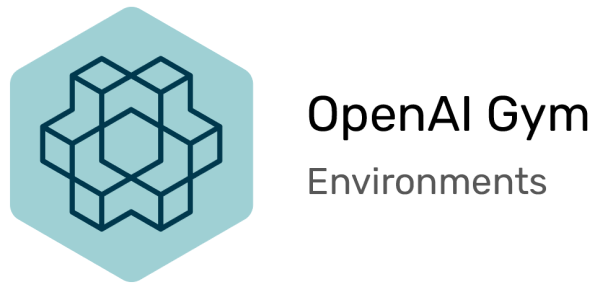
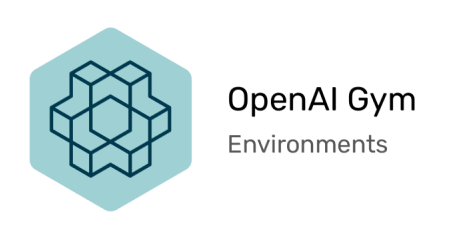
Added articles
- OpenAI Gymnasium articles
- Reduced image sizes
- Added images and content for articles

Changed region(s): [[0.0, 0.0289, 0.4356, 0.9835], [0.4978, 0.3182, 0.9956, 0.4917], [0.4978, 0.5496, 0.9333, 0.6653]]

diff --git a/_blog_articles/gymnasium/gym_spaces.html b/_blog_articles/gymnasium/gym_spaces.html
@@ -1,0 +1,145 @@
+---
+title: Gymnasium - Spaces
+desc: This article is the first of a three-part series that focuses on the core components of the Gymnasium library, covering spaces.
+img_url: rl-gym-spaces.png
+date: 01/12/2022
+tag: rl
+topic: gymnasium
+type: article
+permalink: /blog/gymnasium/:title
+layout: single-page
+---
+<p>This article is the first of a three-part series that focuses on the core components of the Gymnasium library. <a href="https://farama.org/projects">Gymnasium</a> is a Python library developed and maintained by <a href="https://openai.com">OpenAI</a>, where its purpose is to house a rich collection of environments for Reinforcement Learning (RL) experiments using a unified interface.</p>
+<p>If you have only just started your journey with the Gymnasium framework, the official Gymnasium <a href="https://gymnasium.farama.org/">documentation</a> is a great place to start. However, the information it offers is limited. The articles in this series aim to expand this information and provide a deeper understanding of each of the four components Gymnasium offers. In this article, we focus on <span class="med">Spaces</span>.</p>
+
+<h2>Spaces</h2>
+{%- include single_parts/image.html url="spaces-class-hierarchy.png" alt="Spaces class hierarchy" label="Figure 1.1 Spaces class hierarchy." -%}
+
+<p>Spaces assist in defining different types of environment storage spaces within an RL environment, specifically for the observation and action spaces. Six main types derive from the <code>Space(shape=None, dtype=None)</code> abstract class: <code>Discrete</code>, <code>Box</code>, <code>Dict</code>, <code>Tuple</code>, <code>MultiBinary</code>, and <code>MultiDiscrete</code>. However, all spaces are found on the <a href="https://github.com/Farama-Foundation/Gymnasium/tree/main/gymnasium/spaces">Gymnasium GitHub repository</a>. The <code>Space</code> abstract class can be inherited from directly. Though, it is highly recommended to use one of the six primary existing space classes. Furthermore, the space folder contains a file dedicated to utility functions that will also be discussed.</p>
+<p>There are four main functions that the <code>Space</code> class provides:</p>
+<ul>
+    <li><code>sample()</code> - randomly samples an element from the space and returns it.</li>
+    <li><code>contains(x)</code> - returns true or false depending on if <code>x</code> is an item within the space.</li>
+    <li><code>to_jsonable(sample_n)</code> - converts a given batch (list) of samples into a JSON data type.</li>
+    <li><code>from_jsonable(sample_n)</code> - converts a given batch (list) of JSON data into a batch of samples for the space.</li>
+</ul>
+<p>Every child class that derives from <code>Space</code> creates a version of these four functions that are accessible in the same manner, with the same parameters. However, the <code>Discrete</code> class is the only exception to this, where it uses only two of the four functions: <code>sample()</code> and <code>contains(x)</code>.</p>
+<p>Additionally, there are two parameters required for the <code>Space</code> class:</p>
+<ul>
+    <li><code>shape</code> - a tuple of the size of the space.</li>
+    <li><code>dtype</code> - the format type of the data, such as float32 or int32.</li>
+</ul>
+
+<h3>Discrete</h3>
+<p>The <code>Discrete</code> class represents a mutually exclusive set of items, numbered from 0 to \(n - 1\), where n is the number of items stored within it. For example, <code>Discrete(n=4)</code> could signify an action space with four directions to move in <code>[left, right, up, down]</code>, each is associated with a number between 0 and 3, respectively. A simple code example:</p>
+
+<pre rel="python"><code><span class="keyword">import</span> gymnasium <span class="keyword">as</span> gym
+
+env = gym.make(<span class="string">"FrozenLake-v0"</span>)
+<span class="keyword">print</span>(env.action_space) 
+<span class="comment"># > Discrete(4)</span>
+<span class="keyword">print</span>(env.action_space.<span class="function">sample</span>()) 
+<span class="comment"># > 2</span></code></pre>
+
+<h3>Box</h3>
+<p>The <code>Box</code> class represents an \(n\)-dimensional tensor of rational numbers with the intervals <code>[low, high]</code>. For instance, this could be an accelerator pedal with a single value between 0 and 1, presented as <code>Box(low=0.0, high=1.0, shape=(1,), dtype=np.float32)</code>, creating a one-dimensional tensor with a single float value.</p>
+<p>Another example of <code>Box</code> could represent an Atari screen observation space, which is an RGB (red, green, blue) image of size 210x160: <code>Box(low=0, high=255, shape(210, 160, 3), dtype=np.uint8)</code>. In this instance, we have a tuple with three arguments stating the height, width, and colour channels (red, green, blue), respectively. Overall, every observation consists of a three-dimensional tensor with 100,800 bytes.</p>
+<p>These examples present an identical bound <code>Box</code> for each dimension. However, there is another common use case available for independent bound boxes, such as, <code>Box(low=np.array([-1.0, -2.0]), high=np.array([2.0, 4.0]), dtype=np.float32)</code>, where the shape is inferred from the low and high parameters.</p>
+<p>The class has one additional function:</p>
+<ul>
+    <li><code>is_bounded(manner)</code> - accepts the parameters <code>below</code>, <code>above</code>, or <code>both</code> and determines if the <code>Box</code> contains values within the range <code>[-inf, +inf]</code>. If the parameter is below, it will check if <code>-inf</code> is greater than all low numbers, above performs the opposite for all high numbers, and both checks for both comparisons. The function returns true or false based on the conditions.</li>
+</ul>
+<p>Code example for identical and independent bound boxes:</p>
+
+<pre rel="python"><code><span class="keyword">import</span> numpy <span class="keyword">as</span> np
+
+b1 = <span class="class">Box</span>(low=<span class="number">0.0</span>, high=<span class="number">1.0</span>, shape=(<span class="number">1</span>,), dtype=<span class="class">np</span>.<span class="class">float32</span>) <span class="comment"># identical</span>
+b2 = <span class="class">Box</span>(low=<span class="class">np</span>.<span class="class">array</span>([<span class="number">-1.0</span>, <span class="number">2.0</span>]), high=<span class="class">np</span>.<span class="class">array</span>([<span class="number">-2.0</span>, <span class="number">4.0</span>]), dtype=<span class="class">np</span>.<span class="class">float32</span>) <span class="comment"># independent</span>
+<span class="keyword">print</span>(b1) 
+<span class="comment"># > Box(0.0, 1.0, (1,), float32)</span>
+<span class="keyword">print</span>(b2) 
+<span class="comment"># > Box(-1.0, 4.0, (2,), float32) - low.min(), high.max(), shape, dtype</span>
+<span class="keyword">print</span>(b2.<span class="function">sample</span>()) 
+<span class="comment"># > [-1.58, 2.52]</span></code></pre>
+
+<h3>Dict</h3>
+<p>The <code>Dict</code> class is the first of two methods that provides a way to store multiple <code>Space</code> class instances in a container, providing the ability to index spaces by a given key, making it easy to categorize and find space objects efficiently.</p>
+<p>For example, a simple <code>Dict</code> class that reflects a 2D shape with an x-y position and an x-y-z velocity is created as follows:</p>
+
+<pre rel="python"><code><span class="class">Dict</span>({
+    <span class="string">"position"</span>: <span class="class">Discrete</span>(<span class="number">2</span>), 
+    <span class="string">"velocity"</span>: <span class="class">Discrete</span>(<span class="number">3</span>)
+})</code></pre>
+
+<p>One powerful feature of the <code>Dict</code> class is that we can nest a <code>Dict</code> inside another <code>Dict</code> to make more comprehensive storage containers for large projects. For example:</p>
+
+<pre rel="python"><code><span class="class">Dict</span>({
+    <span class="string">'sensors'</span>:  <span class="class">Dict</span>({
+        <span class="string">'front_cam'</span>: <span class="class">Tuple</span>((
+        <span class="class">Box</span>(low=<span class="number">0</span>, high=<span class="number">1</span>, shape=(<span class="number">10</span>, <span class="number">10</span>, <span class="number">3</span>)),
+        <span class="class">Box</span>(low=<span class="number">0</span>, high=<span class="number">1</span>, shape=(<span class="number">10</span>, <span class="number">10</span>, <span class="number">3</span>))
+        )),
+        <span class="string">'rear_cam'</span>: <span class="class">Box</span>(low=<span class="number">0</span>, high=<span class="number">1</span>, shape=(<span class="number">10</span>, <span class="number">10</span>, <span class="number">3</span>))
+    }),
+    <span class="string">'ext_controller'</span>: <span class="class">MultiDiscrete</span>((<span class="number">5</span>, <span class="number">2</span>, <span class="number">2</span>))
+})</code></pre>
+
+
+<h3>Tuple</h3>
+<p>The <code>Tuple</code> class is the second method for storing several <code>Space</code> class instances inside a single container, providing a more minimised storage container.</p> 
+<p>Imagine we are creating an environment for a car. The car requires a continuous action space for three components: steering wheel controls, brake pedal positions, and accelerator pedal positions. Additionally, the car needs two sets of discrete action spaces: a turn signal (off, right, or left) and a horn (on or off).</p>
+<p>These controls can be represented in the form of a <code>Tuple</code> class as follows:</p>
+<pre rel="python"><code>spaces = <span class="class">Box</span>(low=-<span class="number">1.0</span>, high=<span class="number">1.0</span>, shape=(<span class="number">3</span>,), dtype=<span class="class">np</span>.<span class="class">float32</span>)
+<span class="class">Tuple</span>(spaces=(spaces, <span class="class">Discrete</span>(n=<span class="number">3</span>), <span class="class">Discrete</span>(n=<span class="number">2</span>)))</code></pre>
+
+
+<h3>MultiBinary</h3>
+<p>The <code>MultiBinary</code> class represents an \(n\)-dimensional binary space containing 0s and 1s. <code>MultiBinary</code> accepts one parameter, \(n\), which is the number of items to add to the binary space. n can be a single number, a list of numbers, or a tuple of numbers.</p>
+<p>For example:</p>
+<pre rel="python"><code>mb1 = <span class="class">MultiBinary</span>(<span class="number">5</span>)
+mb2 = <span class="class">MultiBinary</span>([<span class="number">3</span>, <span class="number">2</span>])
+<span class="keyword">print</span>(mb1.<span class="function">sample</span>()) 
+<span class="comment"># > array([0, 1, 0, 1, 0], dtype=int8)</span>
+<span class="keyword">print</span>(mb2.<span class="function">sample</span>()) 
+<span class="comment"># > array([[0, 0], [0, 1], [1, 1]], dtype=int8)</span></code></pre>
+
+<h3>MultiDiscrete</h3>
+<p>The <code>MultiDiscrete</code> class creates a series of discrete spaces with a different number of elements in each. A use for this class involves game controllers or keyboards, requiring their own unique discrete action space.</p>
+<p>The class accepts two parameters:</p>
+<ul>
+<li><code>nvec</code> - a list of numbers describing the number of actions in each discrete space.</li>
+<li><code>dtype</code> - the format data type of the discrete spaces, defaults to int64.</li>
+</ul>
+<p>For example, we can conceptualize a Nintendo Game Controller that has three discrete action spaces, where NOOP stands for no operation:</p>
+<ol>
+<li>Arrow keys (5 actions) - NOOP[0], UP[1], RIGHT[2], DOWN[3], LEFT[4] - min: 0, max: 4.</li>
+<li>Button A (2 actions) - NOOP[0], PRESSED[1] - min: 0, max: 1.</li>
+<li>Button B (2 actions) - NOOP[0], PRESSED[1] - min: 0, max: 1.</li>
+</ol>
+<p>The controller is initialized using:</p>
+<pre rel="python"><code><span class="class">MultiDiscrete</span>(nvec=[<span class="number">5</span>, <span class="number">2</span>, <span class="number">2</span>], dtype=<span class="class">np</span>.<span class="class">int64</span>)</code></pre>
+
+<h3>Utility Functions</h3>
+<p>Within the spaces folder, there is a file called <span class="med">utils.py</span> that contains four utility functions:</p>
+<ul>
+    <li><code>flatdim(space)</code> - returns an integer for the number of dimensions a flatten equivalent of the given space would have.</li>
+    <li><code>flatten(space, x)</code> - converts a data point <code>x</code> from a given space into a one-dimensional array and returns the 1D array. The function is useful for passing data points from a space into a neural network that accepts only flattened arrays.</li>
+    <li><code>unflatten(space, x)</code> - reverses the transformation applied by <code>flatten(space, x)</code> and returns a data point with a structure that matches the space.</li>
+    <li><code>flatten_space(space)</code> - converts a given space into a one-dimensional <code>Box</code>, containing the exact number of dimensions specified with <code>flatdim(space)</code>.</li>
+</ul>
+<p>Each function has its benefits and can be applied to any RL project by importing the file using the following import statement:</p>
+<pre rel="python"><code><span class="keyword">import</span> gym.spaces.utils <span class="keyword">as</span> gym_utils</code></pre>
+
+<p>A code example:</p>
+<pre rel="python"><code>b = <span class="class">Box</span>(low=<span class="number">0</span>, high=<span class="number">255</span>, shape=(<span class="number">210</span>, <span class="number">160</span>, <span class="number">3</span>), dtype=<span class="class">np</span>.<span class="class">uint8</span>)
+b_flat = gym_utils.<span class="function">flatten_space</span>(b) <span class="comment"># Box(0, 255, (100800,), uint8)</span>
+b_flat_count = gym_utils.<span class="function">flatdim</span>(b) <span class="comment"># 100800</span>
+
+<span class="keyword">print</span>(b.<span class="function">sample</span>()[<span class="number">0</span>][:<span class="number">2</span>]) 
+<span class="comment"># > [[18 200 33], [123 139 28]] - first 2 rows of first item</span>
+<span class="keyword">print</span>(b_flat.<span class="function">sample</span>()[:<span class="number">5</span>]) 
+<span class="comment"># > [33 53 352 177 102] - first 5 items</span></code></pre>
+
+<h2>References</h2>
+<p>Book by Maxim Lapan (2020) - <a href="https://www.packtpub.com/product/deep-reinforcement-learning-hands-on-second-edition/9781838826994">Deep Reinforcement Learning Hands-On, Second Edition</a></p>
+<p>Gymnasium Codebase (2022) - <a href="https://github.com/Farama-Foundation/Gymnasium">GitHub</a></p>

diff --git a/_blog_articles/gymnasium/gym_wrappers.html b/_blog_articles/gymnasium/gym_wrappers.html
@@ -1,0 +1,93 @@
+---
+title: Gymnasium - Wrappers & Monitors
+desc: This article is the third and final article in a three-part series that focuses on the core components of the Gymnasium library, covering wrappers and monitors.
+img_url: rl-gym-wraps.png
+date: 03/12/2022
+tag: rl
+topic: gymnasium
+type: article
+permalink: /blog/gymnasium/:title
+layout: single-page
+---
+<p>This article is the third and final in a three-part series that focuses on the core components of the Gymnasium library. <a href="https://farama.org/projects">Gymnasium</a> is a Python library developed and maintained by <a href="https://openai.com">OpenAI</a>, where its purpose is to house a rich collection of environments for Reinforcement Learning (RL) experiments using a unified interface.</p>
+<p>If you have only just started your journey with the Gymnasium framework, the official Gymnasium <a href="https://gymnasium.farama.org/">documentation</a> is a great place to start. However, the information it offers is limited. The articles in this series aim to expand this information and provide a deeper understanding of each of the four components Gymnasium offers. In this article, we focus on <span class="med">Wrappers & Monitors</span>.</p>
+
+<h2>Wrappers</h2>
+<p>Wrappers are a method to modularly extend an RL environment's functionality while keeping the original classes separate. Given an environment with a set of observations, a wrapper can provide the ability to accumulate the observations within a replay buffer and output the agent's \(N\) last observations without editing the original class.</p>
+<p>Typically, wrappers are "wrapped" around an existing environment and add extra functionality. Gymnasium provides a framework for these situations using the <code>Wrapper</code> class.</p>
+
+{%- include single_parts/image.html url="wrapper-class-hierarchy.png" alt="Wrapper class hierarchy" label="Figure 1.1 Wrapper classes hierarchy." -%}
+
+<p>There are two sets of locations for wrappers on the Gymnasium GitHub repository. The first is in the <a href="https://github.com/Farama-Foundation/Gymnasium/blob/main/gymnasium/core.py">core.py</a> file, which contains the main template wrappers, all of which are discussed in this section. The second is inside the <a href="https://github.com/Farama-Foundation/Gymnasium/tree/main/gymnasium/wrappers">wrappers folder</a> that houses a wide variety of utility wrappers for different environment requirements and highlights the following quick tips for creating wrappers:</p>
+    <ul>
+      <li>Remember to use <code>super().__init__(env)</code> to override the wrapper's <code>__init__()</code> function.</li>
+      <li>Inner environments are accessible with <code>self.unwrapped</code>.</li>
+      <li>Previous environment layers are accessed using <code>self.env</code>.</li>
+      <li>The variables <code>metadata</code>, <code>action_space</code>, <code>observation_space</code>, <code>reward_range</code>, and <code>spec</code> are copied to <code>self</code> from the previous environment.</li>
+      <li>Wrapped classes require at least one of the following functions: <code>__init__(self, env)</code>, <code>step</code>, <code>reset</code>, <code>render</code>, <code>close</code>, or <code>seed</code>.</li>
+      <li>A wrapped (layered) function requires an input from the previous layer (<code>self.env</code>) and/or the inner layer (<code>self.unwrapped</code>).</li>
+</ul>
+<p>The <code>Wrapper</code> class inherits from the <code>Env</code> class, where it accepts a single parameter - the instance of the <code>Env</code> class to wrap. The <code>Wrapper</code> class has three child classes that allow filtration of the environments core information. The child wrappers are the <code>ObservationWrapper</code>, <code>RewardWrapper</code>, and <code>ActionWrapper</code>.</p>
+<p>Each wrapper has a unique version of the <code>reset()</code> and <code>step(action)</code> functions found in the Env class. Both of these functions are explained in more detail in the <a href="/blog/gymnasium/gym_envs">Gymnasium - Environments</a> article. Furthermore, each child wrapper requires an additional class function, highlighted within their respective sections below.</p>
+
+<h3>ObservationWrapper</h3>
+<p>The <code>ObservationWrapper</code> is a wrapper that focuses on observations. It requires a single function <code>observation(obs)</code>, where the <code>obs</code> argument is a single observation from the wrapped environment. The observation is passed through the function and updated, based on the developer's requirements, and returned by the function. </p>
+
+<h3>RewardWrapper</h3>
+<p>Like the <code>ObservationWrapper</code>, <code>RewardWrapper</code> requires a single function, <code>reward(rew)</code>. However, this function focuses on agent rewards, not observations. The <code>rew</code> argument is a single reward value that gets updated within the function and then returned by it.</p>
+
+<h3>ActionWrapper</h3>
+<p>The last child wrapper, <code>ActionWrapper</code>, focuses on the third critical component to RL algorithms, actions. Similar to the others, it requires a single function <code>action(act)</code>. The act argument is a single agent action that passes through the function, is updated, and then returned.</p>
+<p>For instance, imagine a situation where we want to amend the stream of actions sent by the agent and change them so that with a probability of 10%, the current action is replaced with a random one. Using this approach, the agent will explore the environment more, assisting in solving the exploration/exploitation problem. In practice, the example would look like the following:</p>
+
+<pre><code><span class="keyword">import</span> gym
+<span class="keyword">import</span> random
+<span class="keyword">from</span> typing <span class="keyword">import</span> TypeVar
+
+Action = <span class="class">TypeVar</span>(<span class="long-comment">'Action'</span>)
+
+<span class="keyword">class</span> <span class="class">RandomActionWrapper</span>(<span class="class">gym.ActionWrapper</span>):
+    <span class="long-comment">"""A basic ActionWrapper representation for including random actions."""</span>
+    <span class="keyword">def</span> <span class="function">__init__</span>(<span class="keyword">self</span>, env: <span class="class">gym.Env</span>, epsilon: <span class="keyword">float</span> = <span class="number">0.1</span>) -> <span class="keyword">None</span>:
+    <span class="keyword">super</span>().<span class="function">__init__</span>(env)
+    <span class="keyword">self</span>.epsilon = epsilon
+
+<span class="keyword">def</span> <span class="function">action</span>(<span class="keyword">self</span>, action: Action) -> Action:
+    <span class="long-comment">"""
+    Handles the agent action functionality. Accepts a current action 
+    and returns a random action if a random value is less than self.epsilon, 
+    otherwise, the current action is taken.
+    """</span>
+    <span class="keyword">if</span> <span class="class">random</span>.<span class="function">random</span>() < <span class="keyword">self</span>.epsilon:
+        <span class="keyword">return</span> <span class="keyword">self</span>.env.action_space.<span class="function">sample</span>()
+    <span class="keyword">return</span> action</code></pre>
+
+<h2>Monitors</h2>
+<p>The <code>Monitor</code> class is implemented like a <code>Wrapper</code> class and is used to write information about the agent's performance into a file. Monitors are useful for reviewing an agent's life inside of its environment. In total, there are eight parameters available for the <code>Monitor</code> class. Two are required and the remaining six are optional. The parameters are:</p>
+<ul>
+    <li><code>env</code> - an <code>Env</code> class object denoting the type of environment to monitor.</li>
+    <li><code>directory</code> - a string value containing a non-created directory name for storing the monitor information.</li>
+</ul>
+<p>While the six optional arguments are as follows:</p>
+<ul>
+    <li><code>video_callable</code> - accepts the parameters <code>[function, None, False]</code>. If a custom function is provided, it must take in the index of an episode and output a Boolean, indicating whether a video is recorded for the current episode. The default value is <code>None</code>, which assigns the variable to the monitor's <code>capped_cubic_video_schedule(episode_id)</code> function. The parameter can be set to <code>False</code> to disable video recording.</li>
+    <li><code>force</code> - a Boolean value that works in conjunction with the <code>directory</code> argument, which has a default value of false. If set to true, all existing training data within the given direction gets deleted, and a prefix of "openaigym" is applied to each file.</li>
+    <li><code>resume</code> - a Boolean value that is set to false by default. If set to true, the training data already in the given <code>directory</code> is retained and merged with the new data.</li>
+    <li><code>write_upon_reset</code> - a Boolean value set to false by default. When set to true, the monitor will write the manifest (JSON) file on each reset. Warning: this can be computationally expensive.</li>
+    <li><code>uid</code> - a string value representing a unique id, used as part of the suffix for the JSON file. If the <code>uid</code> is <code>None</code>, one is generated automatically using <code>os.getpid()</code>.</li>
+    <li><code>mode</code> - a string value that is set to <code>None</code> by default. The parameter accepts <code>[evaluation, training]</code> as values to help distinguish between varying episodes when reviewing the results.</li>
+</ul>
+<p>Additionally, there are two components required for the <code>Monitor</code> class. The first is the <span class="med">FFmpeg</span> utility for converting captured observations into an output video file. If the utility isn't available, <code>Monitor</code> will raise an exception.</p>
+<p>The second component required is a method for video recording, allowing the monitor to take screenshots of the window drawn by the environment. The recommended approach is to use an <span class="med">Xvfb</span> virtual display, a 'virtual' graphical display, where its full name is <span class="med">X11 virtual framebuffer</span>. Xvfb starts a virtual graphical display server and forces the program to draw inside of it.</p>
+<p>Using Linux, a standard set of commands to install and run xvfb is seen below:</p>
+
+<pre rel="terminal"><code><span class="keyword">sudo apt install</span> xvfb python-opengl ffmpeg
+<span class="keyword">xvfb-run -s</span> "-screen 0 640x480x24" python filename.py</code></pre>
+
+<p>Creating a <code>Monitor</code> instance using the Gymnasium library can be easily created via the following:</p>
+<pre rel="python"><code><span class="class">gym</span>.<span class="class">wrappers</span>.<span class="class">Monitor</span>(env, <span class="string">"recording"</span>)</code></pre>
+
+<h2>References</h2>
+<p>Book by Maxim Lapan (2020) - <a href="https://www.packtpub.com/product/deep-reinforcement-learning-hands-on-second-edition/9781838826994">Deep Reinforcement Learning Hands-On, Second Edition</a></p>
+<p>Gymnasium Codebase (2022) - <a href="https://github.com/Farama-Foundation/Gymnasium">GitHub</a></p>
+<p>Article by Ayoosh Kathuria (2021) - <a href="https://blog.paperspace.com/getting-started-with-openai-gym/">Getting Started with OpenAI Gym: The Basic Building Blocks</a></p>

diff --git a/_blog_articles/gymnasium/gym_envs.html b/_blog_articles/gymnasium/gym_envs.html
@@ -1,0 +1,64 @@
+---
+title: Gymnasium - Environments
+desc: This article is the second of a three-part series that focuses on the core components of the Gymnasium library, covering environments.
+img_url: rl-gym-envs.png
+date: 02/12/2022
+tag: rl
+topic: gymnasium
+type: article
+permalink: /blog/gymnasium/:title
+layout: single-page
+---
+<p>This article is the second of a three-part series that focuses on the core components of the Gym library. <a href="https://farama.org/projects">Gymnasium</a> is a Python library developed and maintained by <a href="https://openai.com">OpenAI</a>, where its purpose is to house a rich collection of environments for Reinforcement Learning (RL) experiments using a unified interface.</p>
+<p>If you have only just started your journey with the Gymnasium framework, the official Gymnasium <a href="https://gymnasium.farama.org/">documentation</a> is a great place to start. However, the information it offers is limited. The articles in this series aim to expand this information and provide a deeper understanding of each of the four components Gymnasium offers. In this article, we focus on <span class="med">Environments</span>.</p>
+
+
+<h2>Environments</h2>
+<p>The <code>Env</code> class is the main building block for Gym and works for both partially and fully-observed environments, providing arbitrary behind-the-scenes dynamics. A list of environments can be found in the <a href="https://github.com/Farama-Foundation/Gymnasium/tree/main/gymnasium/envs">envs folder</a> on the Gym GitHub repository. The class has three attributes:</p>
+<ul>
+    <li><code>action_space</code> - a space object corresponding to the possible actions an agent can take. The action space isn't limited to a type of space object, allowing the actions to be discrete, continuous, or a combination of both.</li>
+    <li><code>observation_space</code> - a space object corresponding to the environment observations that are provided to the agent. Like the action space, this isn't limited to a type of space object. Observations can be as simple as a list of state, reward, and next state to a multi-dimensional tensor containing colour images.</li> 
+    <li><code>reward_range</code> - a tuple defining the minimum and maximum possible reward values the agent can receive. Defaults to <code>[-inf, +inf]</code>.</li>
+</ul>
+
+<p>Every Gym environment has a unique name consisting of the environment name followed by a v with a version number (<code>EnvironmentName-vN</code>). An <code>Env</code> class can be created using the Gymnasium package with the <code>make(env_name)</code> function.</p>
+<p> A basic example for creating an environment can be found on the official <a href="https://gymnasium.farama.org/tutorials/environment_creation/">Gymnasium documentation</a>. Additionally, the <code>Env</code> class has five functions: <code>step(action)</code>, <code>reset()</code>, <code>render(mode)</code>, <code>close()</code>, and <code>seed(seed)</code>.</p>
+
+<h3>Step</h3>
+<p>The <code>step(action)</code> function is the central piece of any environment. It accepts an action provided by the agent used to run one timestep of the environment's dynamics, divided into four stages:</p>
+<ul>
+    <li>Firstly, we tell the environment which action to execute on the next step.</li>
+    <li>Next, we retrieve the new observation from the environment after the performed action.</li>
+    <li>Thirdly, we obtain the reward that the agent has gained during the current timestep.</li>
+    <li>And lastly, we obtain a Boolean value that determines if the episode has ended.</li>
+</ul>
+<p>Once these stages have concluded, <code>step(action)</code> returns a tuple of (<code>observation</code>, <code>reward</code>, <code>done</code>, <code>info</code>). Each component returned has a unique type and meaning. These are as follows:</p>
+<ul>
+    <li><code>observation (object)</code> - an array or matrix with an agent's observation data for the current timestep of the environment.</li>
+    <li><code>reward (float)</code> - a floating-point number containing the amount of reward returned after the previous action.</li>
+    <li><code>done (boolean)</code> - a Boolean indicator to identify if the episode has ended. If true, the episode has ended, and further <code>step(action)</code> calls will return undefined results.</li>
+    <li><code>info (dict)</code> - a dictionary containing auxiliary diagnostic information. The information can help to debug the algorithm but is rarely used in agent training. It is common and acceptable to ignore this information in most RL algorithms.</li>
+</ul>
+
+<h3>Reset</h3>
+<p>The <code>reset()</code> function is used to reset the environment to its initial state (first state) and returns an object of the initial environment observation. After each episode, use this function to reset the RL environment.</p>
+
+<h3>Render</h3>
+<p>The <code>render(mode)</code> function is an optional function takes one of three parameters - <code>human</code>, <code>rgb_array</code>, or <code>ansi</code>. Each parameter provides different ways to render the environment. Each parameters functionality is detailed below:</p>
+<ul>
+<li><code>human</code> - renders the environment display (or terminal) into a human-readable format, and is set as the functions default value.</li>
+<li><code>rgb_array</code> - provides an n-dimensional array with the shape (x, y, 3), representing the RGB (red, green, blue) values for an x-by-y pixel image, suitable for turning into a video.</li>
+<li><code>ansi</code> - outputs a string (str) or StringIO.StringIO containing a terminal-style text representation.</li>
+</ul>
+
+<h3>Close</h3>
+<p>The <code>close()</code> function performs any necessary clean-up of the environment, such as terminating the program once completed or during automatic garbage collection.</p>
+
+<h3>Seed</h3>
+<p>The <code>seed(seed)</code> function sets the seed for the environment's random number generators and helps to reproduce results. Generally, some environments will use multiple pseudorandom number generators.</p>
+<p>Thus, it is recommended that all seeds are managed within this function to avoid accidental conflicts. The function returns a list of the seeds used in the environment's random number generators, where the first value is the "main" seed (typically the provided seed).</p>
+
+<h2>References</h2>
+<p>Book by Maxim Lapan (2020) - <a href="https://www.packtpub.com/product/deep-reinforcement-learning-hands-on-second-edition/9781838826994">Deep Reinforcement Learning Hands-On, Second Edition</a></p>
+<p>Gymnasium Codebase (2022) - <a href="https://github.com/Farama-Foundation/Gymnasium">GitHub</a></p>
+        
